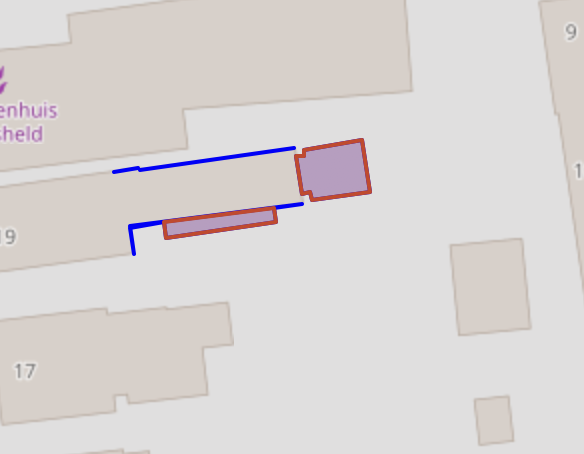
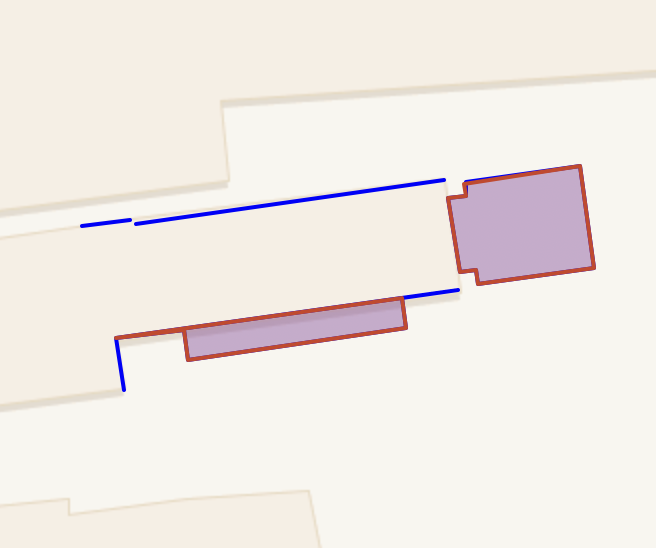
added examples

diff --git a/detection_2d/README.md b/detection_2d/README.md
@@ -98,7 +98,7 @@ CREATE TABLE underpasses.non_sliver_geometries AS (
 
 ### Step 4: Double Snapping
 
-For the filtered dataset, we perform a more sophisticated difference calculation using geometric snapping to better align BAG and BGT geometries. This step uses a 0.05m snapping tolerance to handle small misalignments between datasets:
+For the filtered dataset, we perform a more sophisticated difference calculation using geometric snapping to better align BAG and BGT geometries. This step uses a **0.03m** snapping tolerance to handle small misalignments between datasets:
 
 ```SQL
 CREATE TABLE underpasses.snapped_differences AS
@@ -184,28 +184,75 @@ With Blue the parts that got removed and with red the parts that got preserved:
   <tr>
     <td>
       <figure>
-        <img src="img/ex1.png" width="200"/>
+        <img src="img/ex6.png" width="200"/>
+        <figcaption>NL.IMBAG.Pand.0003100000118006</figcaption>
       </figure>
     </td>
     <td>
       <figure>
         <img src="img/ex2.png" width="200"/>
+        <figcaption>NL.IMBAG.Pand.0003100000118401</figcaption>
       </figure>
     </td>
-  </tr>
-    <tr>
     <td>
       <figure>
         <img src="img/ex3.png" width="200"/>
-      </figure>
-    </td>
-    <td>
-      <figure>
-        <img src="img/ex4.png" width="200"/>
+        <figcaption>NL.IMBAG.Pand.0003100000118462</figcaption>
       </figure>
     </td>
   </tr>
 </table>
 
+Where it doesn't work perfectly:
+
+<table>
+  <tr>
+    <td>
+      <figure>
+        <img src="img/ex5.png" width="200"/>
+        <figcaption>NL.IMBAG.Pand.0010100000008514</figcaption>
+      </figure>
+    </td>
+    <td>
+      <figure>
+        <img src="img/ex4.png" width="200"/>
+        <figcaption>NL.IMBAG.Pand.0005100000002807</figcaption>
+      </figure>
+    </td>
+    <td>
+      <figure>
+        <img src="img/ex1.png" width="200"/>
+        <figcaption>NL.IMBAG.Pand.0003100000117823</figcaption>
+      </figure>
+    </td>
+  </tr>
+</table>
+
+
+To avoid those cases we could increase the threshold for the double snapping, however this will affect the polygons of certain underpasses. For example for building **NL.IMBAG.Pand.0599100000635797**, the underpass polygon is preserved better with 3cm instead of 5cm threshold:
+
+<table>
+  <tr>
+    <td>
+      <figure>
+        <img src="img/ex7.png" width="200"/>
+        <figcaption>Threshold 3cm</figcaption>
+      </figure>
+    </td>
+    <td>
+      <figure>
+        <img src="img/ex8.png" width="200"/>
+        <figcaption>Threshold 5cm</figcaption>
+      </figure>
+    </td>
+  </tr>
+</table>
+
+Finally, when compared with the "outer ceiling surfaces" from 3D rotterdam, the polygon of the underpasses have minimal differences.
+
+  <figure>
+    <img src="img/ex9.png" width="200"/>
+    <figcaption>NL.IMBAG.Pand.0599100000635797: Red our detected underpass, green from 3DRotterdam</figcaption>
+  </figure>
 
 ## Part 2: Edge Classification and expansion
